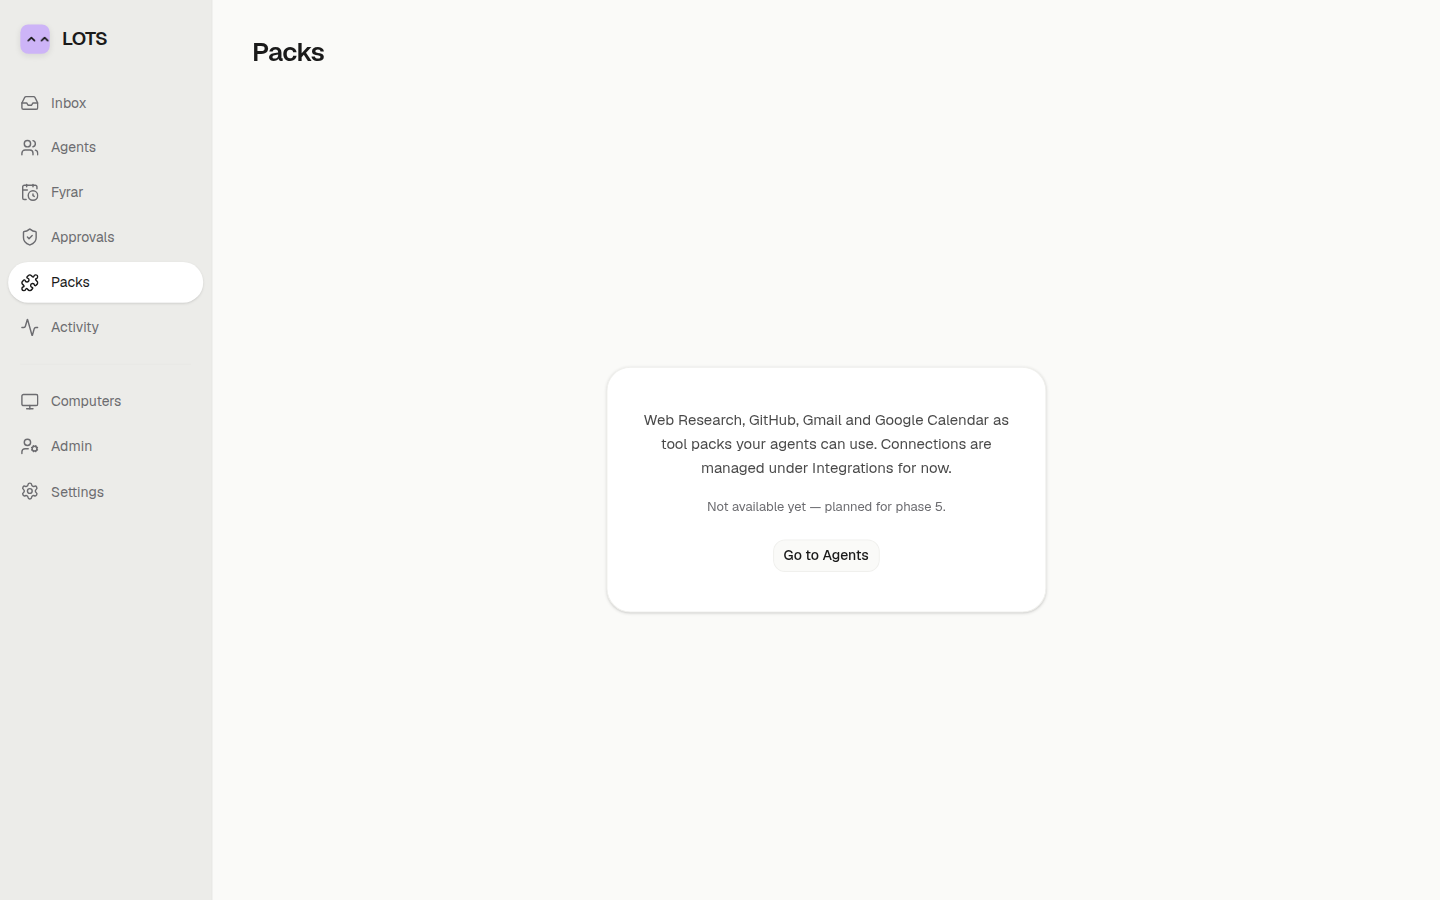
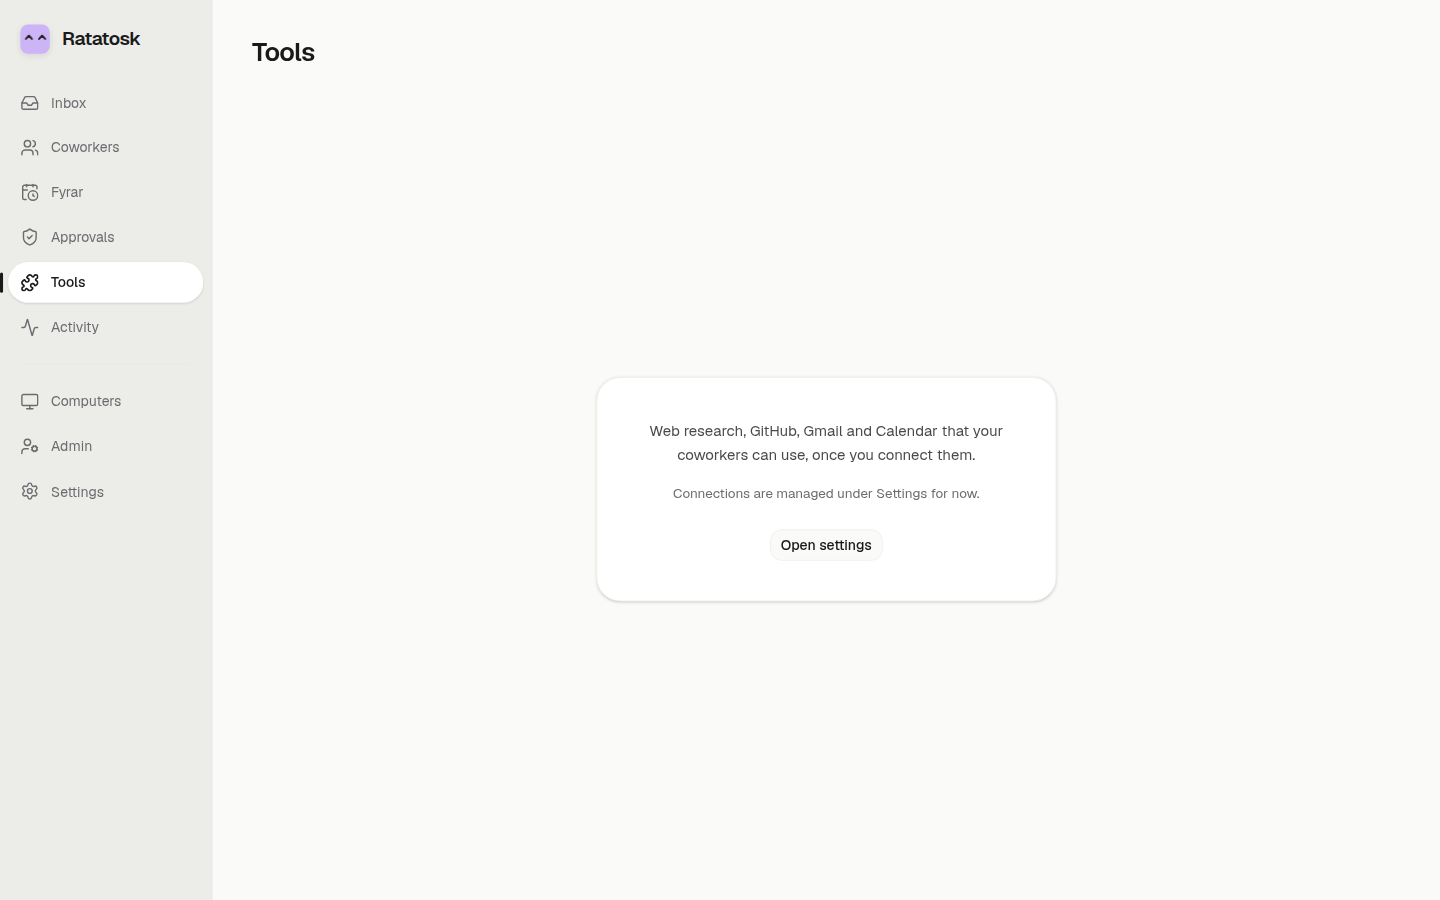
kuble: refresh Phase 1 screenshots after the Ratatosk UX pass
Update the documented light-mode gallery for Coworkers, the new-coworker
dialog, Fyrar/Tools empty states, Swedish chrome, and Welcome/auth. Fix
the planned-page CTA to render as a link without native-button warnings.

diff --git a/projects/kuble/apps/web/src/lots/PlannedPage.tsx b/projects/kuble/apps/web/src/lots/PlannedPage.tsx
@@ -79,7 +79,12 @@ export function PlannedPage({ section }: { section: Exclude<LotsNavKey, "agents"
         <div className="max-w-[460px] rounded-3xl border border-border bg-card px-8 py-10 shadow-sm">
           <p className="text-[15px] leading-relaxed text-foreground/80">{page.description}</p>
           <p className="mt-4 text-[13.5px] leading-relaxed text-muted-foreground">{page.next}</p>
-          <Button variant="outline" className="mt-6" render={<Link to={page.href} />}>
+          <Button
+            variant="outline"
+            className="mt-6"
+            nativeButton={false}
+            render={<Link to={page.href} />}
+          >
             {page.cta}
           </Button>
         </div>

diff --git a/projects/kuble/packages/contracts/src/ids.ts b/projects/kuble/packages/contracts/src/ids.ts
@@ -11,7 +11,7 @@ export const ActorSchema = z.object({
 });
 export type Actor = z.infer<typeof ActorSchema>;
 
-/** LOTS agent palette: pastel fills that keep dark eyes and black type legible. */
+/** Ratatosk agent palette: pastel fills that keep dark eyes and black type legible. */
 export const BOT_COLORS = [
   "#FFD86B",
   "#9AD0F5",

diff --git a/projects/kuble/apps/web/src/lib/ui-locale.ts b/projects/kuble/apps/web/src/lib/ui-locale.ts
@@ -1,4 +1,15 @@
-export const UI_LOCALES = ["en", "de", "ko", "tr", "hi", "pt-BR", "zh-CN", "es", "ru", "sv"] as const;
+export const UI_LOCALES = [
+  "en",
+  "de",
+  "ko",
+  "tr",
+  "hi",
+  "pt-BR",
+  "zh-CN",
+  "es",
+  "ru",
+  "sv",
+] as const;
 
 export type UiLocale = (typeof UI_LOCALES)[number];
 
